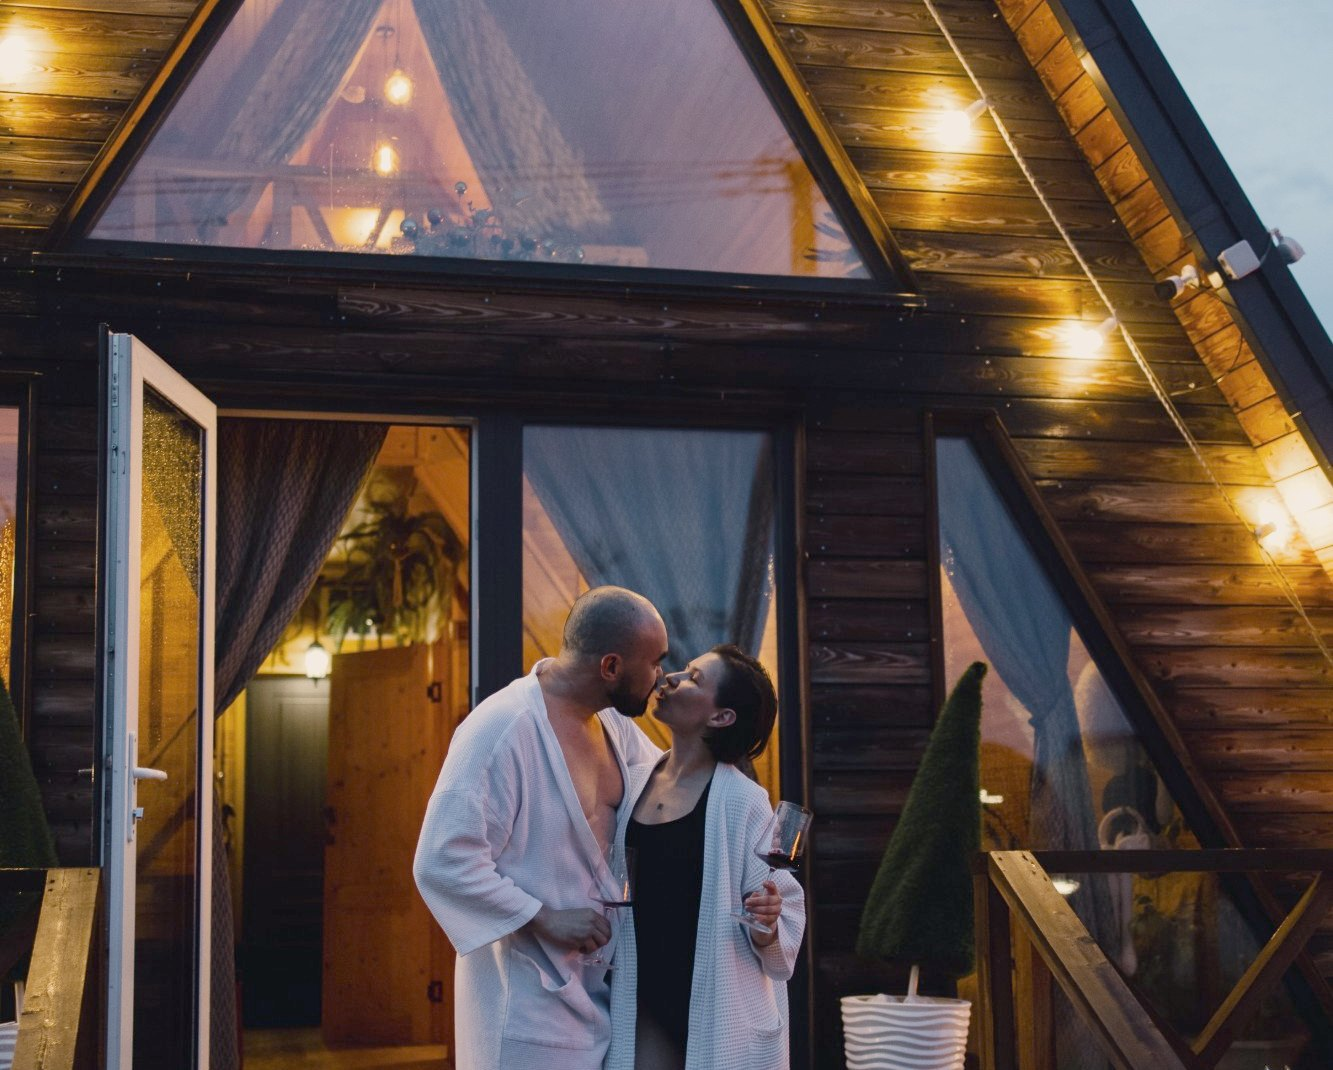
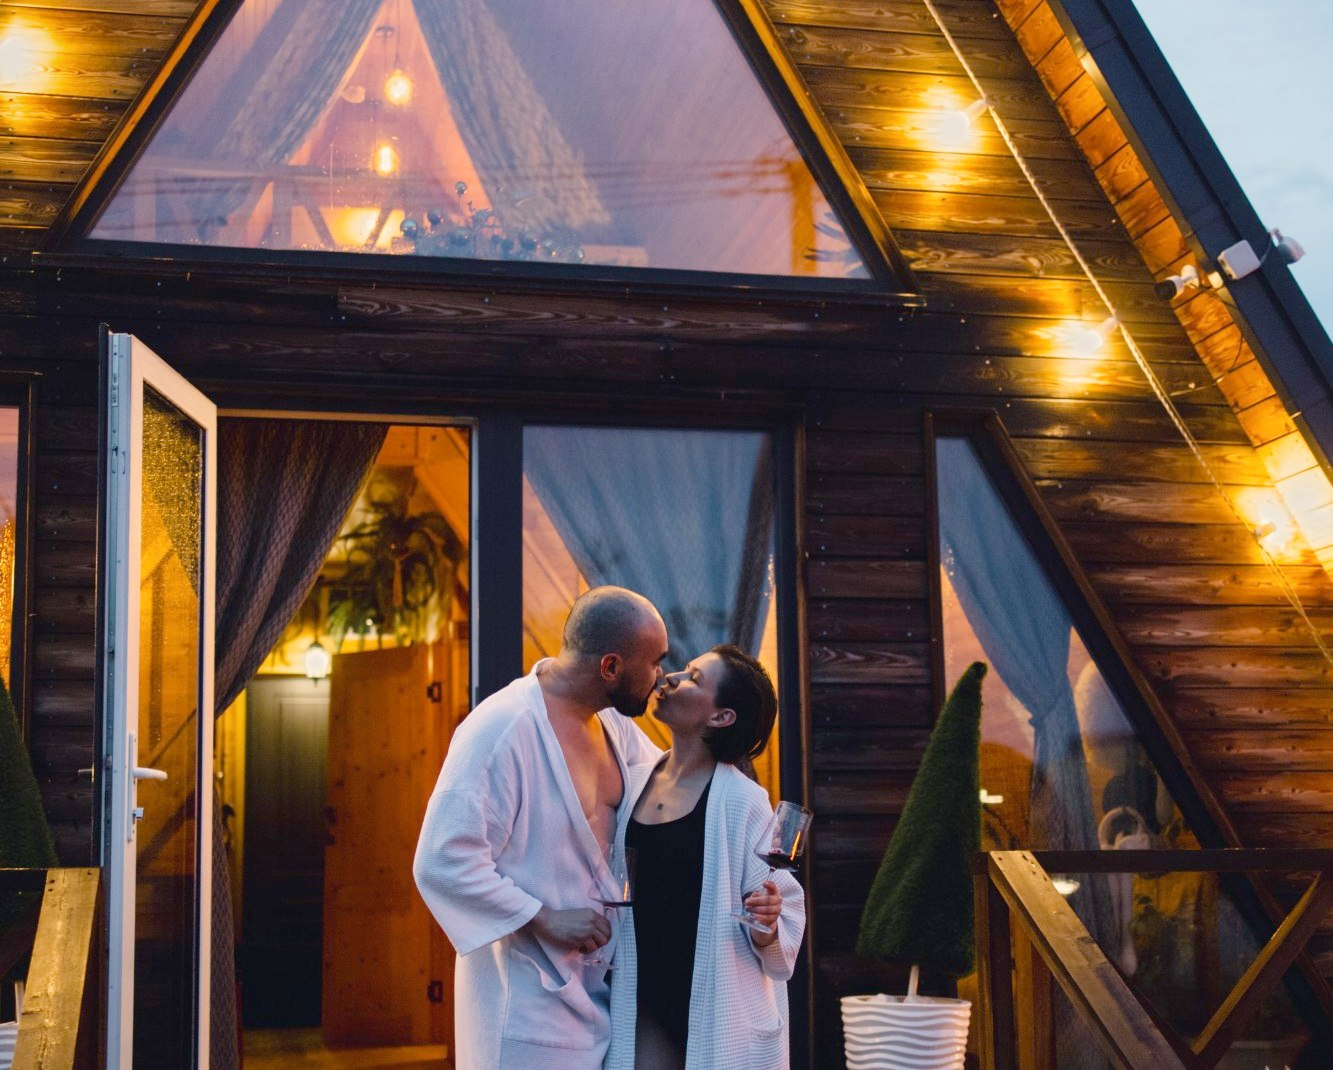
Unified reference grade on all photos, white descriptions back

diff --git a/index.html b/index.html
@@ -77,6 +77,7 @@ a.btn,a.mini{text-decoration:none}
 .card .price{margin:6px 0 4px;white-space:nowrap}
 ul li b{font-weight:700;color:#2B2118}ul li .m{color:#8a7a68;font-weight:500}
 .ln{display:none}
+.ov span.d{display:block;font-size:15px;line-height:1.4;color:#F4EFE6;font-weight:500;margin-top:2px}
 .ov span.m b{display:inline;font-family:inherit;font-size:inherit;line-height:inherit;margin:0;color:#F4EFE6;font-weight:700}
 .ov span.m{color:#9d9788}
 .ask{font-size:12px;color:#6b5a48;margin-top:12px}
@@ -165,7 +166,7 @@ h2{font-size:26px;line-height:1.15;margin:34px 0 14px}
 </div>
 <div class="stars">4,6 ★ <span style="color:#B9B3A6;font-weight:400;font-size:13px">в 2ГИС, 143 отзыва</span></div>
 
-<div class="ov" style="margin-top:18px"><img src="p41.jpg" alt="Неоновая вывеска Не тот лес" style="height:440px;object-position:50% 0%"><div><em>ВАС ЖДЁТ</em><b>Вечер, который хочется повторить</b></div></div>
+<div class="ov" style="margin-top:18px"><img src="p41.jpg" alt="Неоновая вывеска Не тот лес" style="height:440px;object-position:50% 0%"><div><em>ВАС ЖДЁТ</em><b>Вечер, который хочется повторить</b><span class="d">Хабаровск, улица Узорная, 8</span></div></div>
 <h2 id="tariffs" style="scroll-margin-top:12px">Выберите формат отдыха</h2>
 <div class="card tap" data-t="Романтика для пары" data-p="от 12 000 ₽, суббота 16 000 ₽">
 <img class="cardimg" src="p27c.jpg" alt="Романтика для пары" style="object-position:50% 50%;height:290px">
@@ -193,12 +194,12 @@ h2{font-size:26px;line-height:1.15;margin:34px 0 14px}
 </div>
 
 <h2>Ваш вечер у нас</h2>
-<div class="ov"><img src="p36.jpg" alt="Афрейм на закате" style="object-position:50% 30%"><div><em>ЗАЕЗД</em><b>Тёплый афрейм</b></div></div>
-<div class="ov"><img src="p38.jpg" alt="Отдых в бане" style="object-position:50% 60%"><div><em>БАНЯ</em><b>Сибирский кедр</b></div></div>
-<div class="ov"><img src="p28.jpg" alt="Парение в бане" style="object-position:50% 35%"><div><em>ПАР</em><b>Пар по-сибирски</b></div></div>
-<div class="ov"><img src="p40.jpg" alt="Чан с подсветкой" style="object-position:50% 25%"><div><em>ЧАН</em><b>Чан на 6 человек</b></div></div>
-<div class="ov"><img src="p29.jpg" alt="Территория с подсветкой" style="object-position:50% 70%"><div><em>ТЕРРИТОРИЯ</em><b>Вечер в огнях</b></div></div>
-<div class="ov"><img src="p35.jpg" alt="Беседка" style="object-position:50% 60%"><div><em>БЕСЕДКА</em><b>Беседка до 15 человек</b></div></div>
+<div class="ov"><img src="p36.jpg" alt="Афрейм на закате" style="object-position:50% 30%"><div><em>ЗАЕЗД</em><b>Тёплый афрейм</b><span class="d">Гирлянды по фасаду, олени у крыльца</span></div></div>
+<div class="ov"><img src="p38.jpg" alt="Отдых в бане" style="object-position:50% 60%"><div><em>БАНЯ</em><b>Сибирский кедр</b><span class="d">Кедр, панорамное окно, банные халаты</span></div></div>
+<div class="ov"><img src="p28.jpg" alt="Парение в бане" style="object-position:50% 35%"><div><em>ПАР</em><b>Пар по-сибирски</b><span class="d">Халаты, шапочки и всё, чтобы напариться</span></div></div>
+<div class="ov"><img src="p40.jpg" alt="Чан с подсветкой" style="object-position:50% 25%"><div><em>ЧАН</em><b>Чан на 6 человек</b><span class="d">До 6 человек, вода из источника</span></div></div>
+<div class="ov"><img src="p29.jpg" alt="Территория с подсветкой" style="object-position:50% 70%"><div><em>ТЕРРИТОРИЯ</em><b>Вечер в огнях</b><span class="d">Вся территория освещена, олени светятся</span></div></div>
+<div class="ov"><img src="p35.jpg" alt="Беседка" style="object-position:50% 60%"><div><em>БЕСЕДКА</em><b>Беседка до 15 человек</b><span class="d">Мягкие диваны, мангал и решётки бесплатно</span></div></div>
 
 <h2>Условия проживания</h2>
 <div class="card"><ul>
